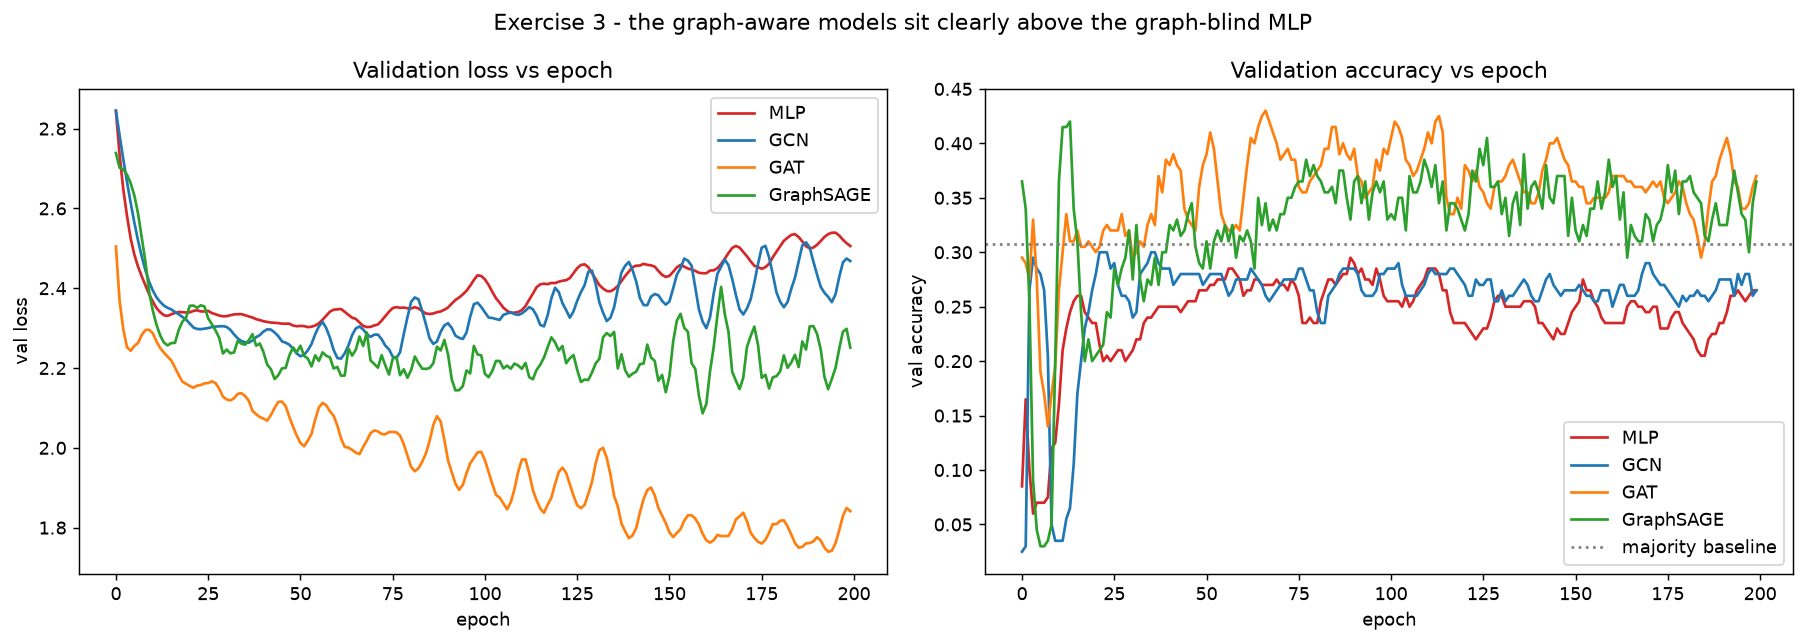
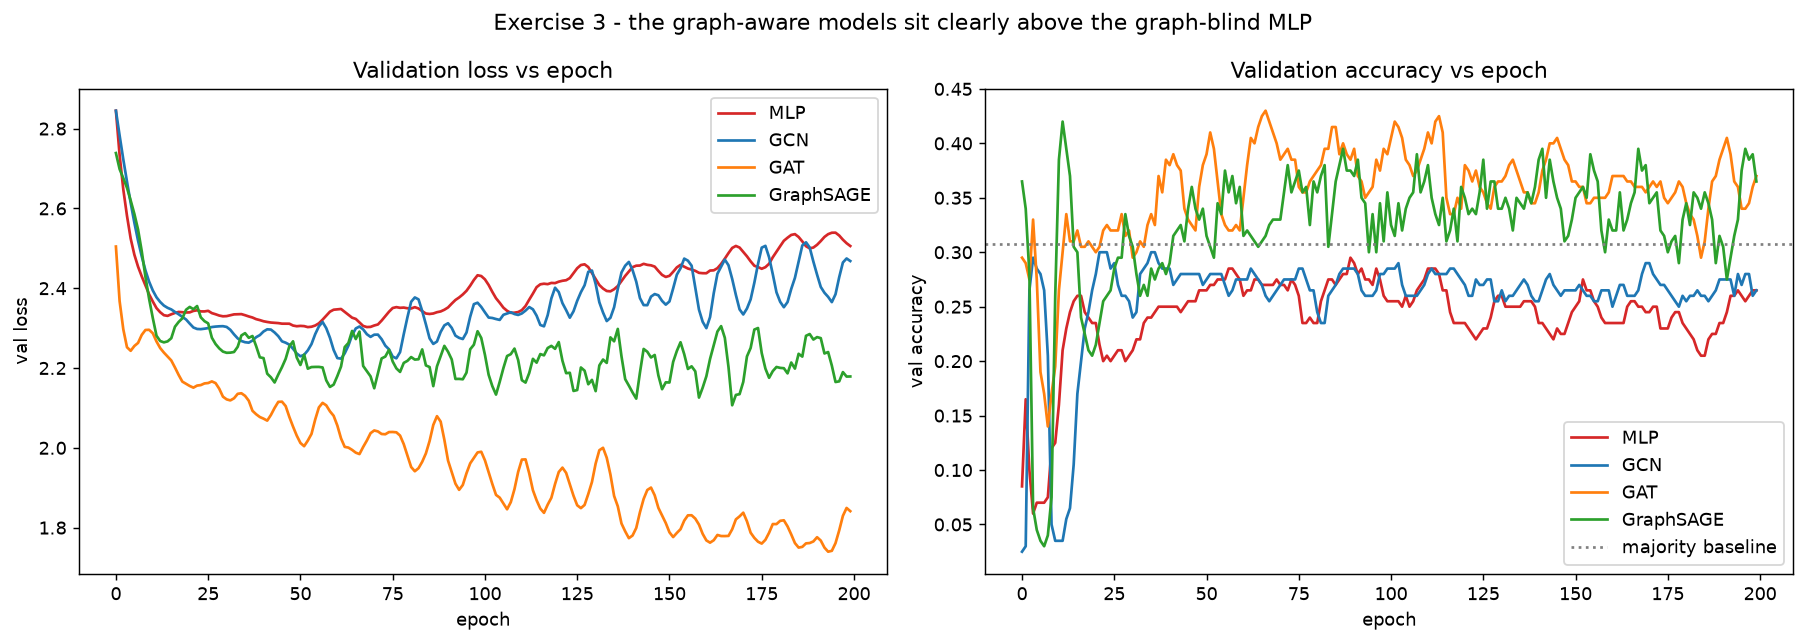
A5: Graph Neural Networks — st126235

diff --git a/README.md b/README.md
@@ -63,9 +63,9 @@ embedding toward the same vector (**over-smoothing**) until the classifier can n
 
 | Model | Test Accuracy | Avg epoch time |
 |---|---|---|
-| GCN | 23.00% | 1.4 ms |
+| GCN | 23.00% | 1.1 ms |
 | GAT (8 heads) | 26.20% | 41.8 ms |
-| GraphSAGE (k=10) | 18.60% | 394.8 ms |
+| GraphSAGE (k=10) | 21.40% | 394.9 ms |
 
 Training curves for the three GNNs (train solid, validation dashed):
 
@@ -95,7 +95,7 @@ artifact, not a property of the algorithm.)*
 | MLP (no graph) | 14.40% |
 | GCN | 23.00% |
 | GAT | 26.20% |
-| GraphSAGE | 18.60% |
+| GraphSAGE | 21.40% |
 
 Validation curves — every graph-aware model sits clearly above the graph-blind MLP:
 